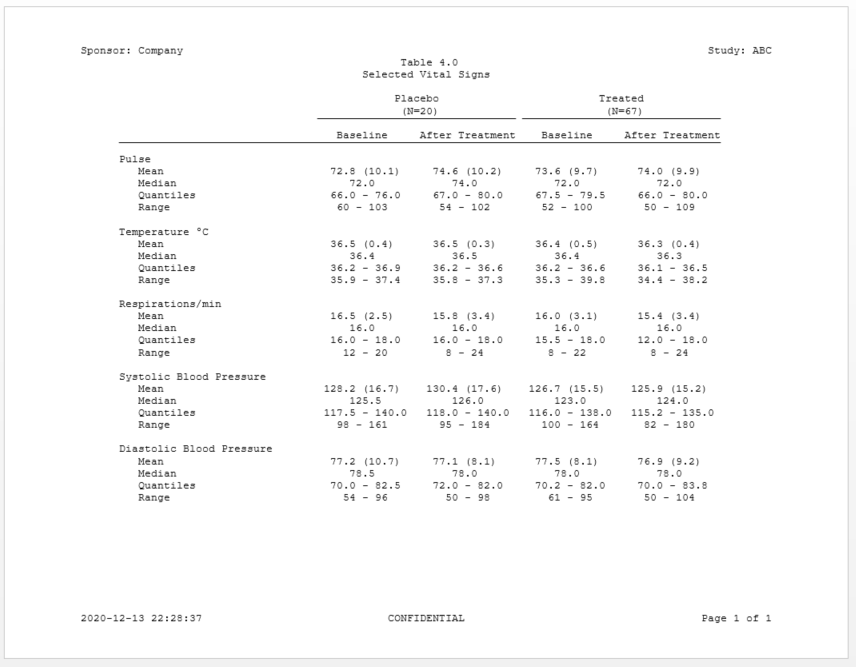
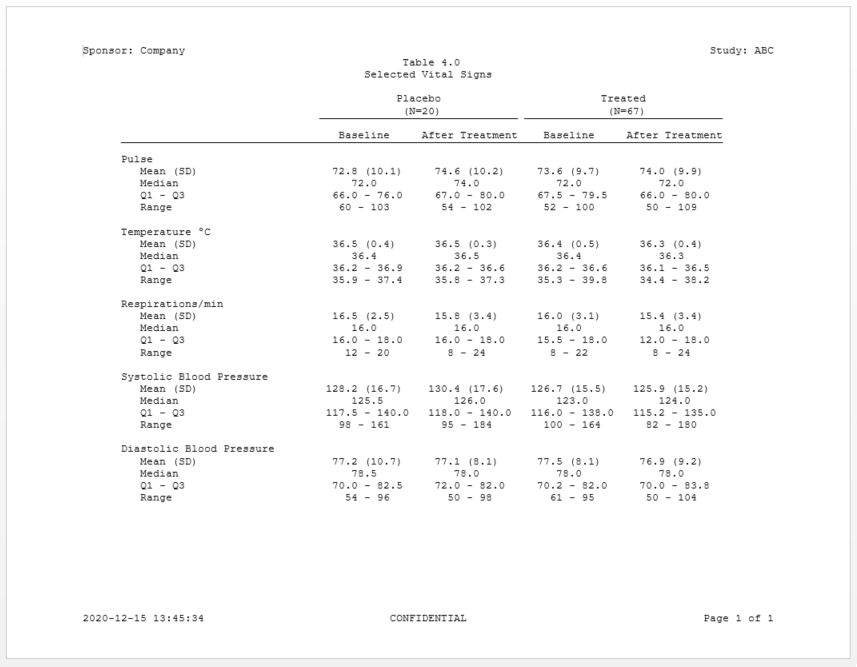
Documentation Updates.

diff --git a/README.md b/README.md
@@ -59,8 +59,8 @@ Note the following about this example:
   SAS® `%put()` statement.
   * The `libname()` function loads an entire directory of data files in one step.
   * The `lib_load()` function loads the data into the workspace for easy access.
-  * The **reporter** package will set columns widths, page wraps,
-  and page breaks correctly by default.  
+  * The **reporter** package will set column widths, page wraps,
+  and page breaks by default.  
 
 ```
 library(tidyverse)
@@ -292,19 +292,27 @@ final <- prep %>%
               values_from = values) %>% 
   put()
   
+  
+sep("Create formats")
+
+# Vital sign format 
+vs_fmt <- c(PULSE = "Pulse", 
+            TEMP = "Temperature °C", 
+            RESP = "Respirations/min", 
+            SYSBP = "Systolic Blood Pressure", 
+            DIABP = "Diastolic Blood Pressure") %>% 
+            put()
+                
+stat_fmt <- value(condition(x == "Mean", "Mean (SD)"),
+                  condition(x == "Quantiles", "Q1 - Q3")) %>% 
+                  put()
 
 sep("Create Report")
 
-# Set up labels 
-lbls <- c(PULSE = "Pulse", 
-          TEMP = "Temperature °C", 
-          RESP = "Respirations/min", 
-          SYSBP = "Systolic Blood Pressure", 
-          DIABP = "Diastolic Blood Pressure")
 
 # Apply sort
 final <- final %>% 
-  mutate(VSTESTCD = factor(VSTESTCD, levels = names(lbls))) %>% 
+  mutate(VSTESTCD = factor(VSTESTCD, levels = names(vs_fmt))) %>% 
   arrange(VSTESTCD)
 
 # Define table object
@@ -313,9 +321,9 @@ tbl <- create_table(final) %>%
   spanning_header(O_BASE, O_TRT, "Treated", n = pop_O) %>% 
   column_defaults(width = 1.25, align = "center") %>% 
   stub(c(VSTESTCD, stats), width = 2.5) %>% 
-  define(VSTESTCD, "Vital Sign", format = lbls, 
+  define(VSTESTCD, "Vital Sign", format = vs_fmt, 
          blank_after = TRUE, dedupe = TRUE, label_row = TRUE) %>% 
-  define(stats, indent = .25) %>% 
+  define(stats, indent = .25, format = stat_fmt) %>% 
   define(A_BASE, "Baseline") %>% 
   define(A_TRT, "After Treatment") %>% 
   define(O_BASE, "Baseline") %>% 
@@ -349,13 +357,13 @@ Here is the log from the above example:
 
 ```
 ========================================================================= 
-Log Path: C:/Users/User/AppData/Local/Temp/RtmpsRnVcf/log/example2.log 
+Log Path: C:/Users/User/AppData/Local/Temp/Rtmp0gWP4L/log/example2.log 
 Working Directory: C:/packages/sassy 
 User Name: User 
 R Version: 4.0.3 (2020-10-10) 
 Machine: ZB15-5CD00276ZY x86-64 
 Operating System: Windows 10 x64 build 18363 
-Log Start Time: 2020-12-13 22:27:46 
+Log Start Time: 2020-12-15 13:53:56 
 ========================================================================= 
 
 ========================================================================= 
@@ -364,19 +372,19 @@ Prepare Data
 
 # library 'sdtm': 10 items
 - attributes: csv not loaded
-- path: data
+- path: C:/packages/sassy/inst/extdata
 - items:
-     Name Extension  Rows Cols     Size        LastModified
-1      AE       csv   150   27    88 Kb 2020-09-18 14:30:23
-2      DA       csv  3587   18 527.8 Kb 2020-09-18 14:30:23
-3      DM       csv    87   24  45.1 Kb 2020-09-18 14:30:23
-4      DS       csv   174    9  33.6 Kb 2020-09-18 14:30:23
-5      EX       csv    84   11  25.9 Kb 2020-09-18 14:30:23
-6      IE       csv     2   14  12.9 Kb 2020-09-18 14:30:23
-7      PE       csv  1854   17 277.7 Kb 2020-09-18 14:30:24
-8  SUPPEX       csv   639   10  63.5 Kb 2020-09-18 14:30:24
-9      SV       csv   685   10  69.8 Kb 2020-09-18 14:30:24
-10     VS       csv  3358   17 466.9 Kb 2020-09-18 14:30:24
+     Name Extension Rows Cols     Size        LastModified
+1      AE       csv  150   27  88.1 Kb 2020-09-18 14:30:23
+2      DA       csv 3587   18 527.8 Kb 2020-09-18 14:30:23
+3      DM       csv   87   24  45.1 Kb 2020-09-18 14:30:23
+4      DS       csv  174    9  33.7 Kb 2020-09-18 14:30:23
+5      EX       csv   84   11    26 Kb 2020-09-18 14:30:23
+6      IE       csv    2   14    13 Kb 2020-09-18 14:30:23
+7      PE       csv 1854   17 277.8 Kb 2020-09-18 14:30:24
+8  SUPPEX       csv  639   10  63.6 Kb 2020-09-18 14:30:24
+9      SV       csv  685   10  69.9 Kb 2020-09-18 14:30:24
+10     VS       csv 3358   17   467 Kb 2020-09-18 14:30:24
 
 left_join: added 18 columns (STUDYID.x, DOMAIN.x, STUDYID.y, DOMAIN.y, VSSEQ, …)
 
@@ -466,13 +474,25 @@ pivot_wider: reorganized (GRP, values) into (A_BASE, A_TRT, O_BASE, O_TRT) [was 
 20 TEMP     Range     35.9 - 37.4   35.8 - 37.3   35.3 - 39.8   34.4 - 38.2  
 
 ========================================================================= 
+Create formats 
+========================================================================= 
+
+PULSE   TEMP             RESP                SYSBP                     DIABP 
+"Pulse" "Temperature °C" "Respirations/min"  "Systolic Blood Pressure" "Diastolic Blood Pressure" 
+
+# A user-defined format: 2 conditions
+  Name Type       Expression     Label Order
+1    x    U      x == "Mean" Mean (SD)    NA
+2    x    U x == "Quantiles"   Q1 - Q3    NA
+
+========================================================================= 
 Create Report 
 ========================================================================= 
 
 mutate: converted 'VSTESTCD' from character to factor (0 new NA)
 
 # A report specification: 1 pages
-- file_path: 'C:\Users\User\AppData\Local\Temp\RtmpsRnVcf/output/t_vs.rtf'
+- file_path: 'C:\Users\User\AppData\Local\Temp\Rtmp0gWP4L/output/t_vs.rtf'
 - output_type: RTF
 - units: inches
 - orientation: landscape
@@ -480,7 +500,7 @@ mutate: converted 'VSTESTCD' from character to factor (0 new NA)
 - page_header: left=Sponsor: Company right=Study: ABC
 - title 1: 'Table 4.0'
 - title 2: 'Selected Vital Signs'
-- page_footer: left=2020-12-13 22:28:37 center=CONFIDENTIAL right=Page [pg] of [tpg]
+- page_footer: left=2020-12-15 13:55:06 center=CONFIDENTIAL right=Page [pg] of [tpg]
 - content: 
 # A table specification:
 - data: tibble 'final' 20 rows 6 cols
@@ -497,8 +517,8 @@ mutate: converted 'VSTESTCD' from character to factor (0 new NA)
 - define: O_TRT 'After Treatment' 
 
 ========================================================================= 
-Log End Time: 2020-12-13 22:28:37 
-Log Elapsed Time: 0 00:00:50 
+Log End Time: 2020-12-15 13:55:11 
+Log Elapsed Time: 0 00:00:01 
 ========================================================================= 
 
 
